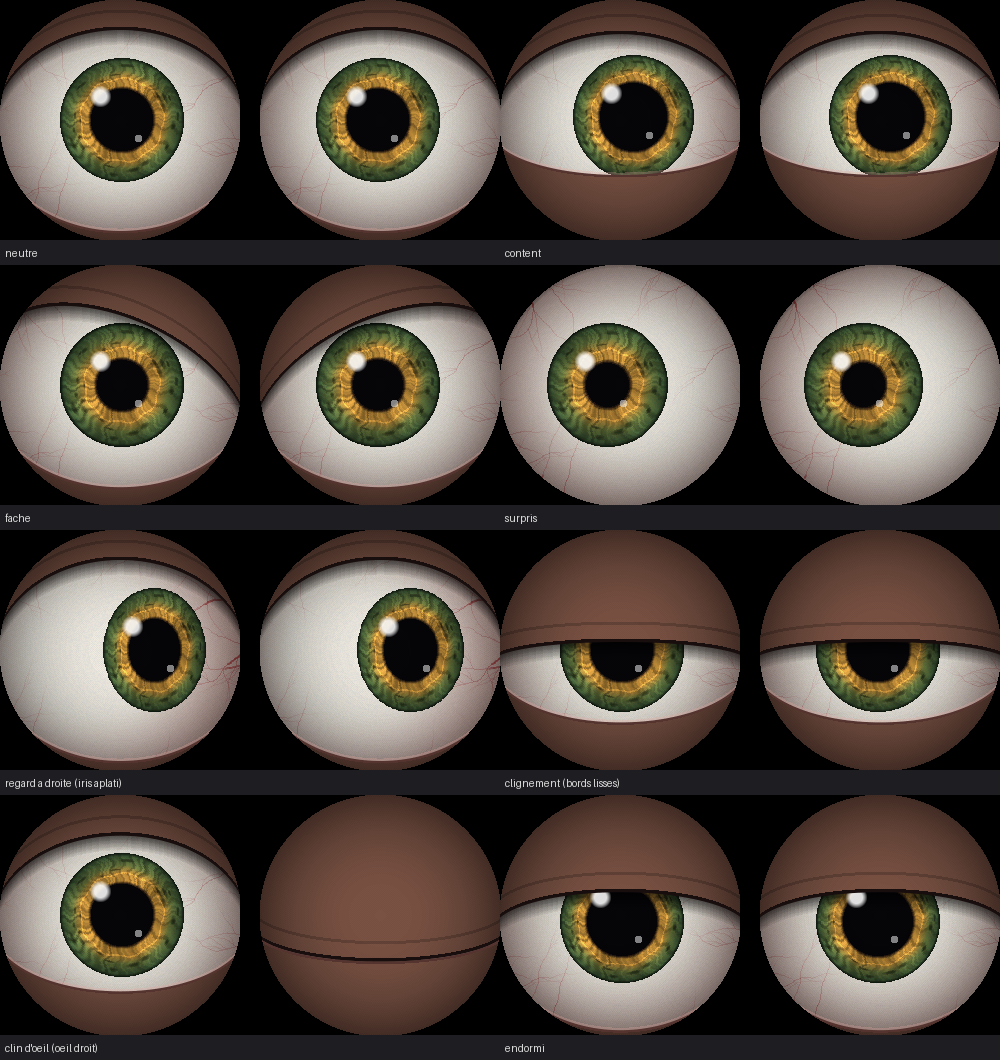
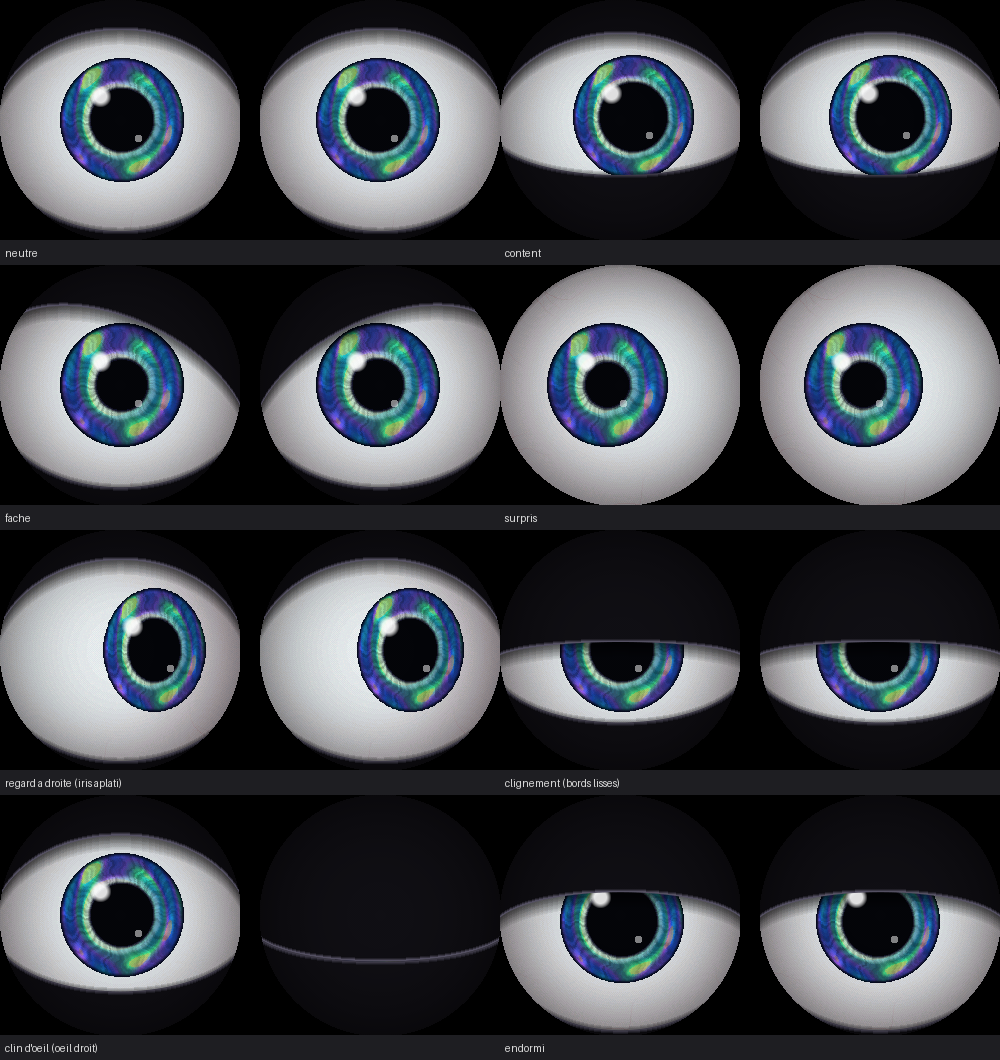
Yeux : iris opale irisé et paupières noir mat
- Nouvelle couleur d'iris Opal (par défaut) : plaques irisées bleu, turquoise,
  vert, violet avec éclats dorés, collerette argentée discrète
- Paupières noir mat avec liseré lumineux, fondues dans le bord de l'écran
- Blanc de l'œil plus froid et plus lumineux, veines plus discrètes

diff --git a/firmware/src/eyes.cpp b/firmware/src/eyes.cpp
@@ -93,18 +93,19 @@ inline uint16_t blend565(uint16_t a, uint16_t b, uint32_t alpha) {
   return (uint16_t)(x | (x >> 16));
 }
 
-constexpr uint16_t PUPIL = rgb(6, 6, 9);
-constexpr uint16_t SKIN = rgb(122, 82, 68);
-constexpr uint16_t LASH_UPPER = rgb(24, 14, 14);
-constexpr uint16_t LASH_LOWER = rgb(85, 52, 48);
+constexpr uint16_t PUPIL = rgb(4, 5, 9);
+// Paupières noir mat : elles se fondent dans le bord de l'écran, l'œil semble flotter.
+constexpr uint16_t LID = rgb(16, 15, 20);
+constexpr uint16_t RIM_UPPER = rgb(84, 80, 98);   // liseré qui accroche la lumière
+constexpr uint16_t RIM_LOWER = rgb(58, 55, 68);
 constexpr uint16_t SPECULAR = rgb(255, 255, 255);
-constexpr uint16_t TEAR = rgb(232, 168, 160);  // bord humide au-dessus de la paupière du bas
 
 struct Palette {
   float inner[3], mid[3], outer[3], limbus[3];
 };
 
 const Palette PALETTES[] = {
+    {},                                                               // Opal : buildOpalIris()
     {{205, 150, 65}, {115, 128, 70}, {72, 96, 60}, {22, 28, 22}},     // Hazel
     {{175, 195, 205}, {90, 140, 190}, {52, 92, 148}, {18, 28, 48}},   // Blue
     {{150, 95, 45}, {108, 66, 32}, {76, 46, 24}, {24, 14, 10}},       // Brown
@@ -198,6 +199,71 @@ void buildIris(const Palette& pal) {
   }
 }
 
+// Iris opale : fond bleu nuit traversé de plaques irisées (« jeu de couleurs » de
+// l'opale) qui passent du bleu au turquoise, au vert et au violet, avec des éclats dorés.
+void buildOpalIris() {
+  static const float FIRE[][3] = {
+      {40, 90, 230}, {30, 200, 225}, {70, 225, 130}, {165, 90, 235}, {40, 90, 230},
+  };
+  const float body[3] = {18, 36, 92}, gold[3] = {255, 190, 80};
+  const float collarCol[3] = {175, 215, 240}, limbus[3] = {6, 10, 28}, ruff[3] = {20, 18, 40};
+
+  float fiber[ANG], raw[ANG], collar[ANG];
+  for (int a = 0; a < ANG; a++) raw[a] = rnd();
+  float pc = rnd() * 6;
+  for (int a = 0; a < ANG; a++) {
+    fiber[a] = 0.5f * raw[a] + 0.25f * (raw[(a + ANG - 1) % ANG] + raw[(a + 1) % ANG]);
+    collar[a] = 0.30f + 0.03f * sinf(a * 2 * PI / ANG * 9 + pc) + 0.02f * (rnd() - 0.5f);
+  }
+  // Deux champs d'ondes 2D : l'un choisit la teinte, l'autre l'éclat des plaques.
+  float wave[6][3];
+  for (auto& w : wave) w[0] = 4 + rnd() * 8, w[1] = rnd() * 2 * PI, w[2] = rnd() * 6;
+
+  for (int r = 0; r < RINGS; r++) {
+    float t = (r + 0.5f) / RINGS;
+    for (int a = 0; a < ANG; a++) {
+      float th = a * 2 * PI / ANG;
+      float X = t * cosf(th), Y = t * sinf(th);
+      float hue = 0, fire = 0;
+      for (int i = 0; i < 3; i++) {
+        hue += sinf(wave[i][0] * (X * cosf(wave[i][1]) + Y * sinf(wave[i][1])) + wave[i][2]);
+        fire += sinf(wave[i + 3][0] * (X * cosf(wave[i + 3][1]) + Y * sinf(wave[i + 3][1]))
+                     + wave[i + 3][2]);
+      }
+      hue = hue / 6 + 0.5f + t * 0.35f;  // dérive de teinte avec le rayon
+      hue -= floorf(hue);
+      fire = smoothstep(-0.2f, 1.6f, fire);
+
+      float pos = hue * 4;
+      int i0 = min(3, (int)pos);
+      float fc[3];
+      lerp3(FIRE[i0], FIRE[i0 + 1], pos - i0, fc);
+      float col[3];
+      lerp3(body, fc, 0.4f + 0.6f * fire, col);
+      if (fire > 0.92f) lerp3(col, gold, (fire - 0.92f) * 6, col);  // rares éclats dorés
+
+      if (t < collar[a]) {  // collerette argentée autour de la pupille
+        float k = t / collar[a];
+        float tint[3], inner[3];
+        lerp3(col, collarCol, 0.5f, tint);
+        lerp3(ruff, tint, smoothstep(0.f, 0.4f, k), inner);
+        lerp3(inner, col, smoothstep(0.55f, 1.f, k), col);
+      }
+      if (t > 0.84f) lerp3(col, limbus, smoothstep(0.84f, 1.f, t), col);
+
+      int aw = (a + (int)(3 * sinf(t * 12 + a * 0.05f)) + ANG) & (ANG - 1);
+      float b = 0.72f + 0.5f * fiber[aw];
+      b += (1 - b) * smoothstep(0.84f, 1.f, t) * 0.7f;
+      irisTex[a * RINGS + r] = rgbf(col[0] * b, col[1] * b, col[2] * b);
+    }
+  }
+}
+
+void buildIrisFor(IrisColor color) {
+  if (color == IrisColor::Opal) buildOpalIris();
+  else buildIris(PALETTES[(int)color]);
+}
+
 void plotVein(float x, float y, float dir, float len, float alpha, int depth) {
   for (int s = 0; s < (int)len; s++) {
     x += cosf(dir);
@@ -210,7 +276,7 @@ void plotVein(float x, float y, float dir, float len, float alpha, int depth) {
         int px = (int)x + ox, py = (int)y + oy;
         if (px < 0 || py < 0 || px >= SCLERA_W || py >= SCLERA_W) continue;
         uint16_t& c = sclera[py * SCLERA_W + px];
-        c = blend565(c, rgb(178, 46, 52), (uint32_t)(a * 32));
+        c = blend565(c, rgb(190, 70, 80), (uint32_t)(a * 32));
       }
     }
     if (depth < 2 && rnd() < 0.025f) {
@@ -220,28 +286,28 @@ void plotVein(float x, float y, float dir, float len, float alpha, int depth) {
 }
 
 void buildSclera() {
-  const float white[3] = {240, 235, 228}, pink[3] = {222, 184, 178};
+  const float white[3] = {238, 240, 244}, pink[3] = {214, 200, 208};  // blanc légèrement froid
   const float half = SCLERA_W / 2.f;
   for (int y = 0; y < SCLERA_W; y++) {
     for (int x = 0; x < SCLERA_W; x++) {
       float fx = (x - half) / half, fy = (y - half) / half;
       float col[3];
       lerp3(white, pink, smoothstep(0.35f, 1.f, sqrtf(fx * fx + fy * fy)), col);
-      float n = (rnd() - 0.5f) * 8;
+      float n = (rnd() - 0.5f) * 5;
       sclera[y * SCLERA_W + x] = rgbf(col[0] + n, col[1] + n, col[2] + n);
     }
   }
-  for (int v = 0; v < 18; v++) {
+  for (int v = 0; v < 10; v++) {  // veines discrètes, seulement vers les coins
     float a = rnd() * 2 * PI;
     float x = half + cosf(a) * 165, y = half + sinf(a) * 165;
-    plotVein(x, y, a + PI + (rnd() - 0.5f) * 0.8f, 70 + rnd() * 80, 0.35f + rnd() * 0.25f, 0);
+    plotVein(x, y, a + PI + (rnd() - 0.5f) * 0.8f, 50 + rnd() * 60, 0.18f + rnd() * 0.14f, 0);
   }
 }
 
 void buildShade() {
   for (size_t i = 0; i < sizeof(shadeLut); i++) {
     float r = sqrtf((float)(i << 5)) / 120.f;
-    shadeLut[i] = (uint8_t)constrain(64 * (1 - 0.45f * powf(r, 2.5f)), 16.f, 64.f);
+    shadeLut[i] = (uint8_t)constrain(64 * (1 - 0.38f * powf(r, 2.5f)), 16.f, 64.f);
   }
   for (int y = 0; y < H; y++) {
     int dy = y - CY;
@@ -427,12 +493,9 @@ void animate() {
 // ---------------------------------------------------------------------------
 inline uint16_t lidPixel(int depth, bool upper, uint32_t shade) {
   // depth : pixels entiers entre la ligne et le bord de la paupière
-  if (upper) {
-    if (depth < 3) return LASH_UPPER;
-    if (depth >= 17 && depth < 20) return scale565(SKIN, shade * 26 >> 5);  // pli de la paupière
-    return scale565(SKIN, shade);
-  }
-  return depth < 2 ? LASH_LOWER : scale565(SKIN, shade);
+  if (depth == 0) return upper ? RIM_UPPER : RIM_LOWER;
+  if (depth < 3) return blend565(upper ? RIM_UPPER : RIM_LOWER, LID, depth * 12);
+  return scale565(LID, shade);
 }
 
 void renderStrip(int e, int y0, uint16_t* out) {
@@ -497,8 +560,8 @@ void renderStrip(int e, int y0, uint16_t* out) {
 
         const int below = -coverU >> 4;  // ombre portée de la paupière supérieure
         if (below < 14) c = scale565(c, 14 + max(below, 0) * 18 / 14);
-        const int above = -coverL >> 4;  // ligne humide au ras de la paupière inférieure
-        if (above < 2) c = blend565(c, TEAR, 9);
+        const int above = -coverL >> 4;  // léger creux d'ombre au ras de la paupière inférieure
+        if (above < 3) c = scale565(c, 22 + max(above, 0) * 3);
 
         if (inIris) {
           if (dh1sq < 121) {
@@ -511,8 +574,8 @@ void renderStrip(int e, int y0, uint16_t* out) {
           }
         }
         // Bords des paupières lissés au sous-pixel (mouvements fluides).
-        if (coverU > 0) c = blend565(c, LASH_UPPER, coverU * 2);
-        if (coverL > 0) c = blend565(c, LASH_LOWER, coverL * 2);
+        if (coverU > 0) c = blend565(c, RIM_UPPER, coverU * 2);
+        if (coverL > 0) c = blend565(c, RIM_LOWER, coverL * 2);
       }
       o[x] = (uint16_t)((c >> 8) | (c << 8));  // ordre d'octets de l'écran
     }
@@ -577,7 +640,7 @@ void begin(IrisColor color) {
   uint32_t t0 = millis();
   buildShade();
   buildPolar();
-  buildIris(PALETTES[(int)color]);
+  buildIrisFor(color);
   buildSclera();
   Serial.printf("eyes: textures prêtes en %lu ms\n", (unsigned long)(millis() - t0));
 
@@ -612,7 +675,7 @@ void wink(int eye) { anim.winkRequest = (int8_t)constrain(eye, 0, 1); }
 void setPupil(float size) { anim.pupilOverride = size; }
 
 void setIrisColor(IrisColor color) {
-  if (irisTex) buildIris(PALETTES[(int)color]);
+  if (irisTex) buildIrisFor(color);
 }
 
 float fps() { return fpsValue; }

diff --git a/firmware/include/eyes.h b/firmware/include/eyes.h
@@ -8,10 +8,10 @@
 namespace eyes {
 
 enum class Mood : uint8_t { Neutral, Happy, Sad, Angry, Surprised, Sleepy };
-enum class IrisColor : uint8_t { Hazel, Blue, Brown, Green };
+enum class IrisColor : uint8_t { Opal, Hazel, Blue, Brown, Green };
 
 // Prépare les textures puis lance l'animation : un œil par cœur, en tâche de fond.
-void begin(IrisColor color = IrisColor::Hazel);
+void begin(IrisColor color = IrisColor::Opal);
 
 void setMood(Mood mood);
 void lookAt(float x, float y);  // -1..1 (droite/bas positifs) ; coupe le regard auto

diff --git a/firmware/src/eyes_demo.cpp b/firmware/src/eyes_demo.cpp
@@ -39,7 +39,7 @@ static void handleSerial() {
     case ' ': eyes::lookAt(0, 0); break;
     case 'c': {
       static int color = 0;
-      color = (color + 1) % 4;
+      color = (color + 1) % 5;
       eyes::setIrisColor((eyes::IrisColor)color);
       break;
     }

diff --git a/README.md b/README.md
@@ -37,6 +37,9 @@ contents quand Opal parle, tristes en cas d'erreur.
 
 ## Yeux (2 écrans ronds GC9A01)
 
+Iris « opale » irisé (bleu, turquoise, vert, violet, éclats dorés), paupières noir
+mat qui se fondent dans le bord de l'écran, un œil calculé par cœur du processeur.
+
 ![Aperçu des humeurs](docs/eyes_preview.png)
 
 Chaque écran a son propre bus SPI (les deux sont rafraîchis en parallèle en DMA).
